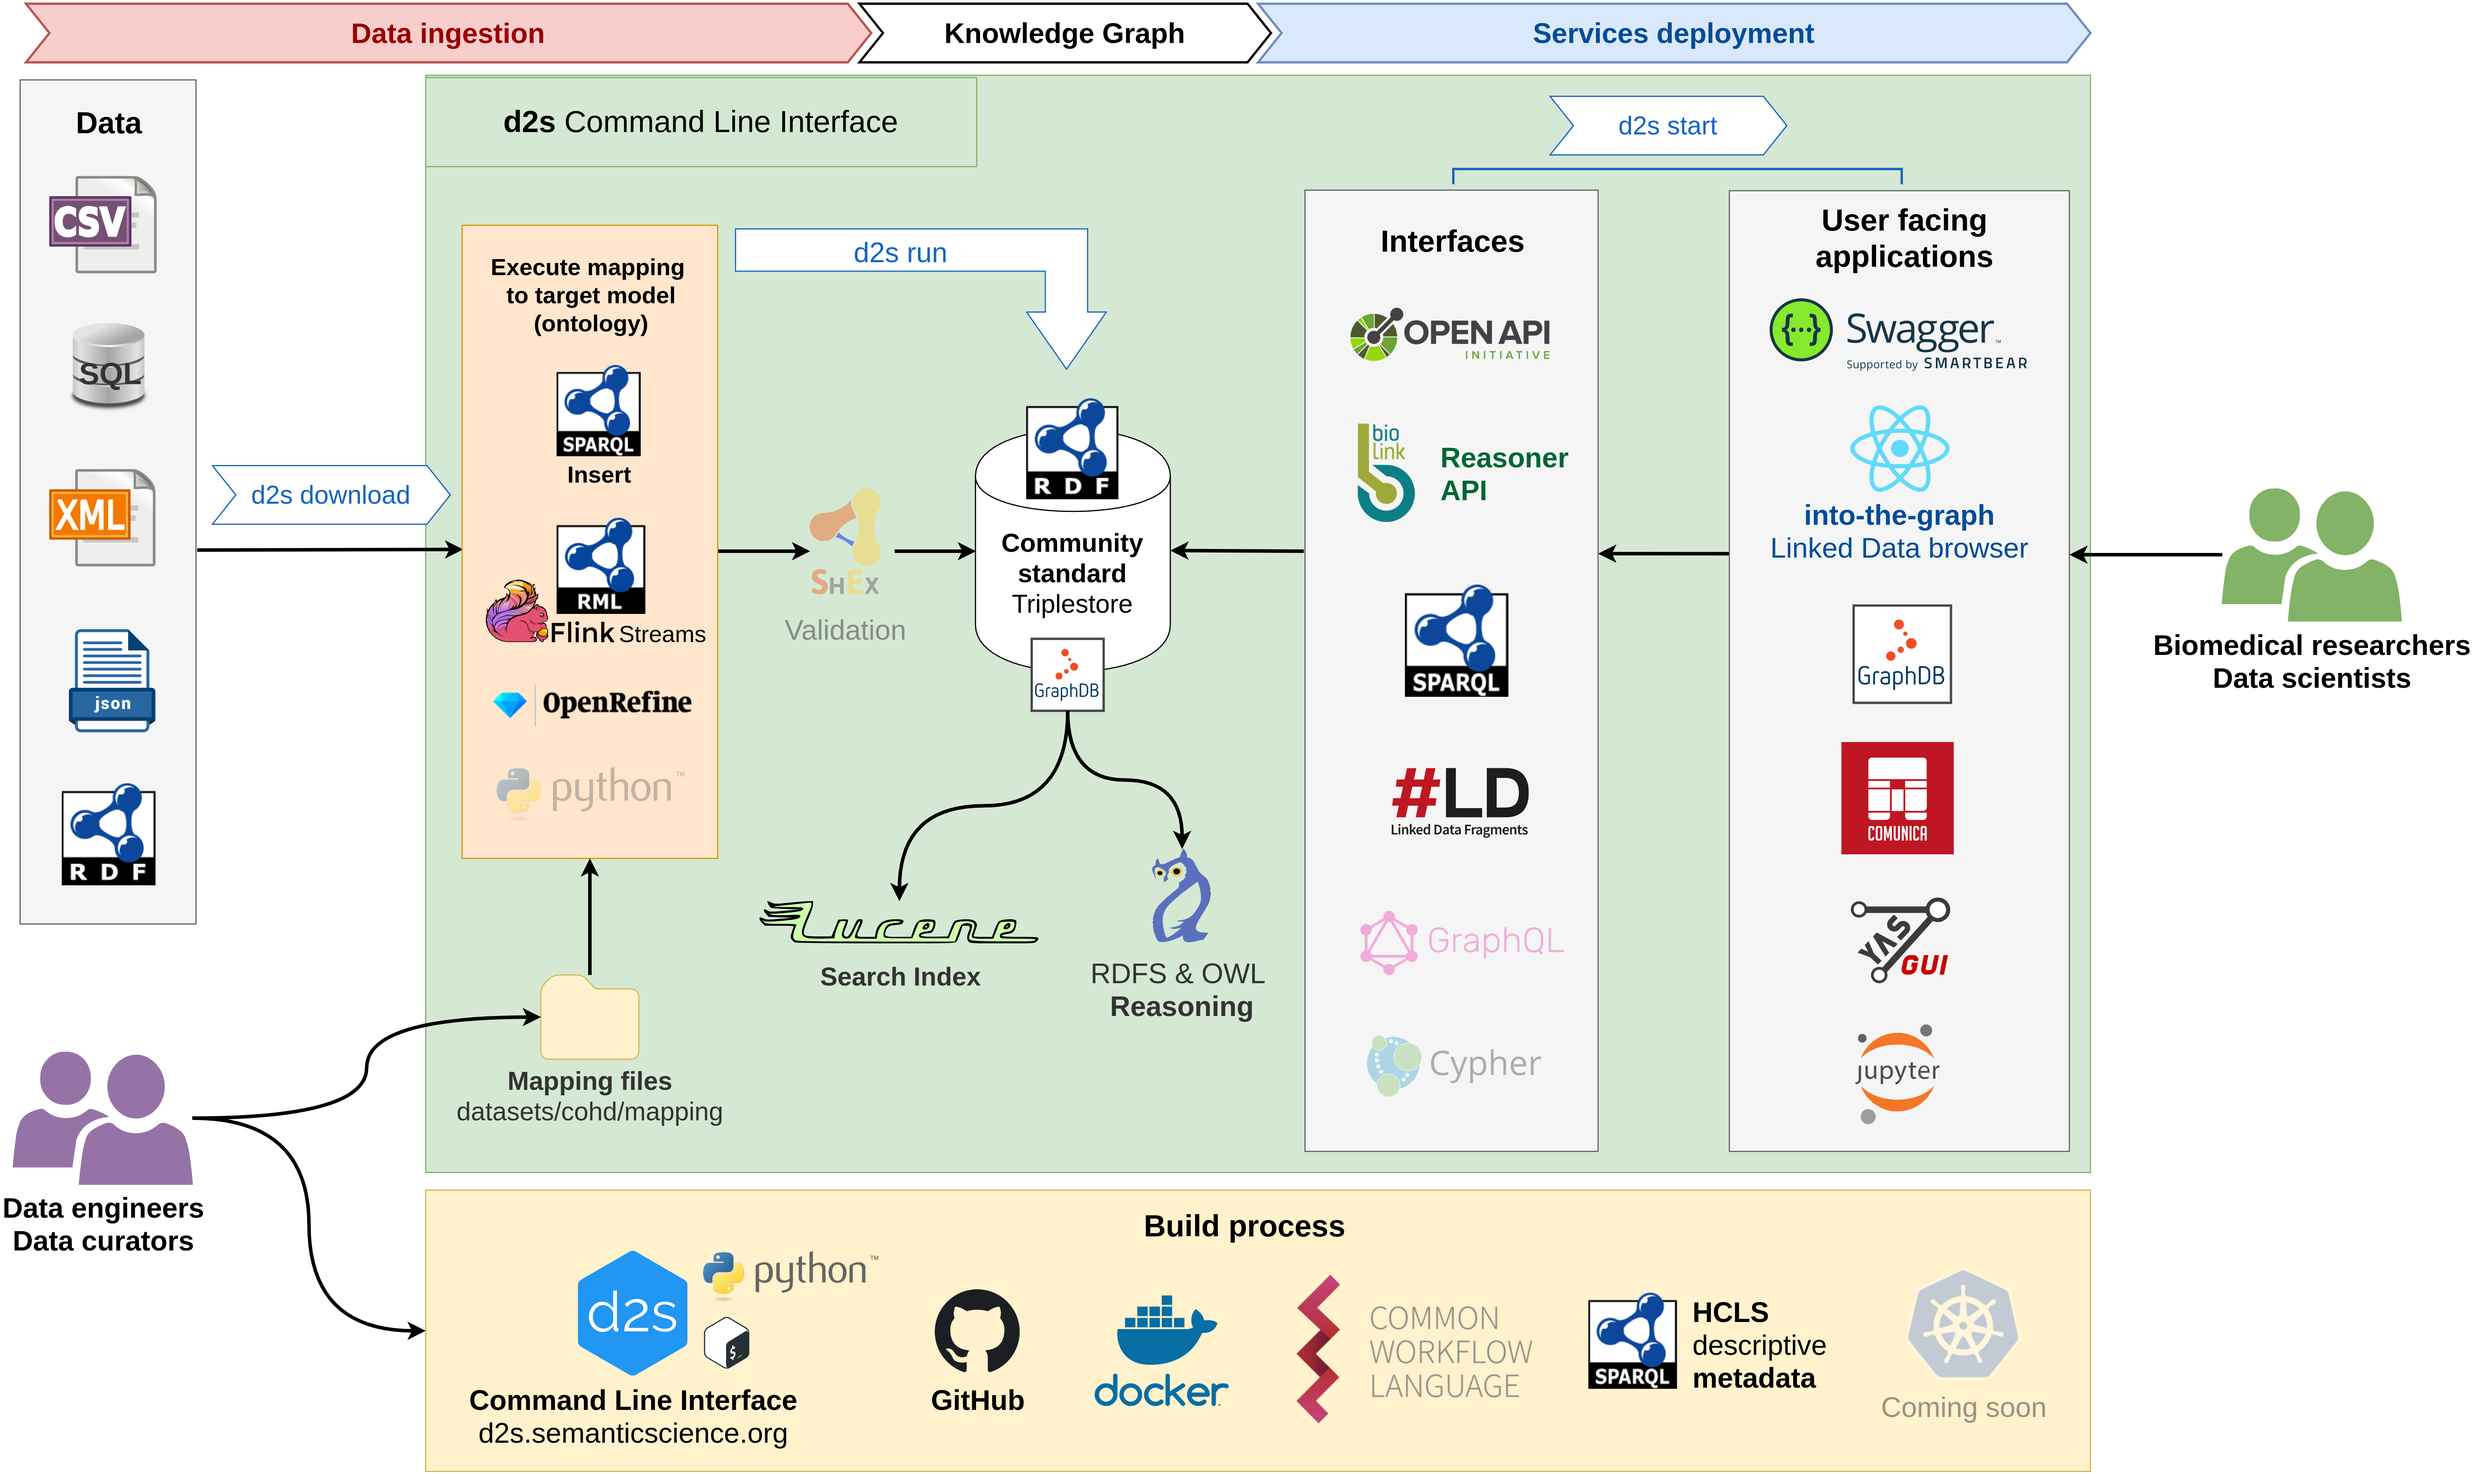
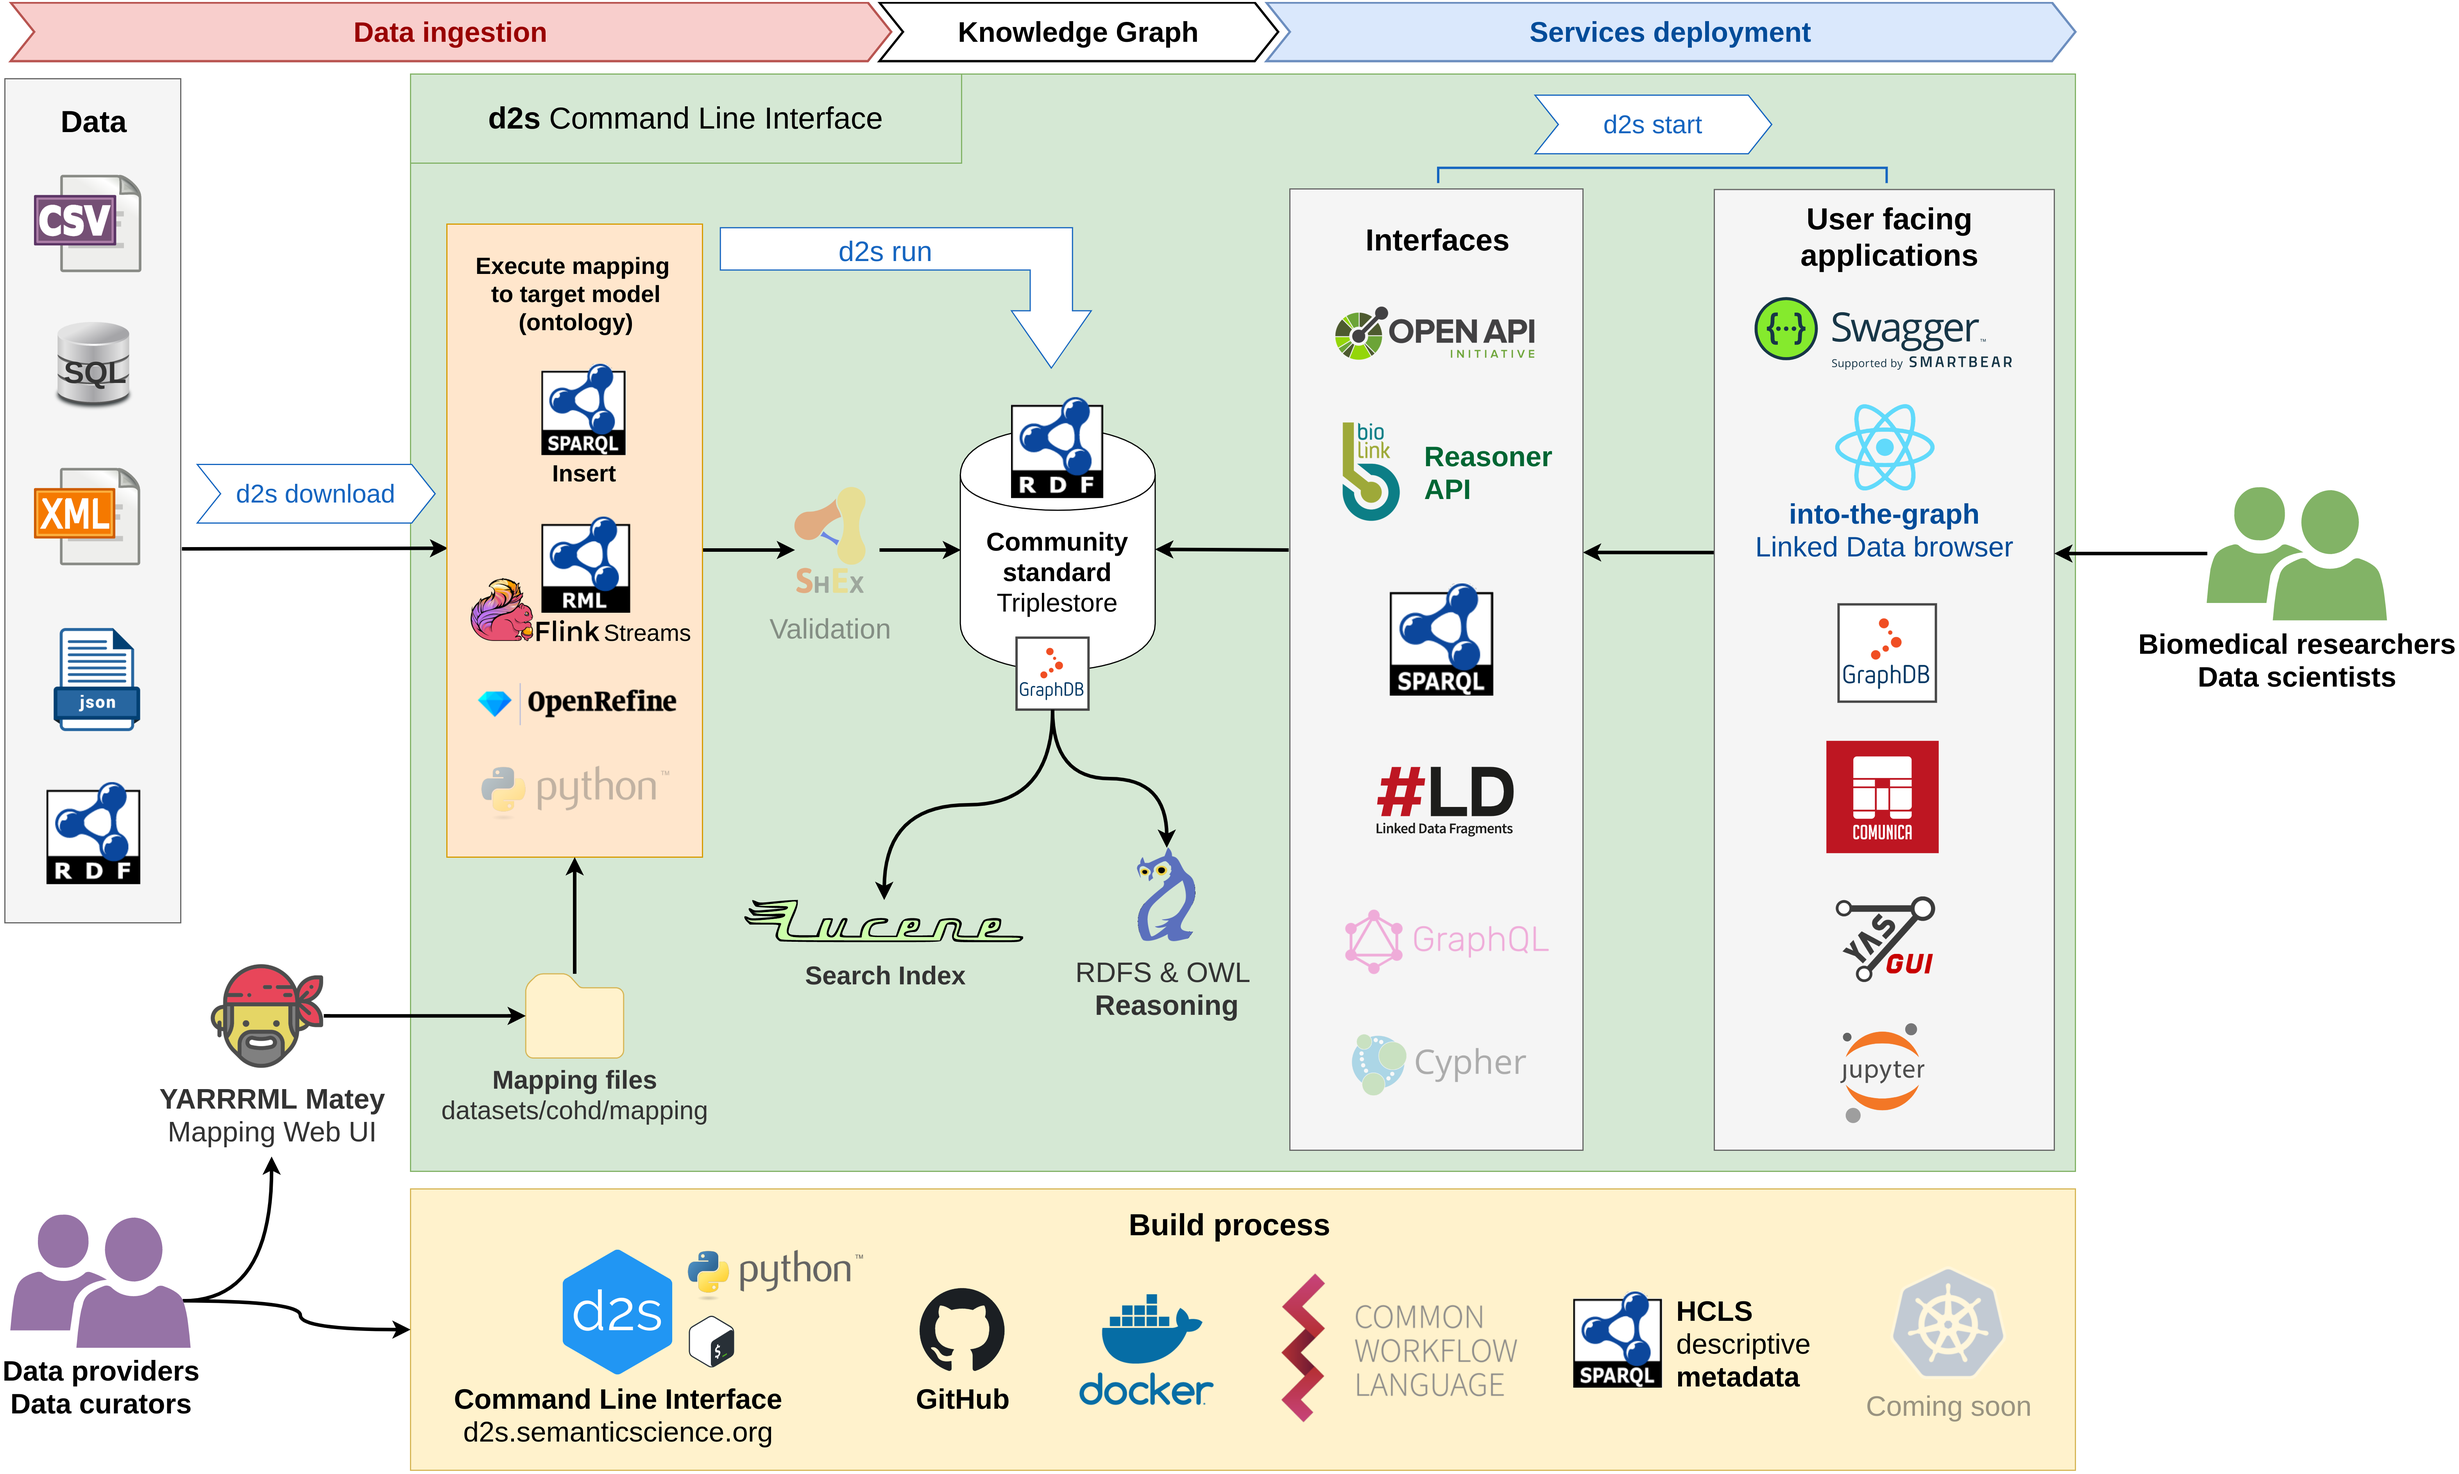
update architecture diagram

diff --git a/docs/d2s-rml.md b/docs/d2s-rml.md
@@ -60,7 +60,7 @@ d2s run compute-hcls-metadata.cwl cohd
 
 [![](/img/yarrrml-logo.png)](https://rml.io/yarrrml/)
 
-The [Matey Web UI editor](https://rml.io/yarrrml/matey/#edit) is available to conveniently write the RML mappings using the [YARRRML](https://rml.io/yarrrml/) simplified language. The mappings can then be conveniently tested in the browser on a sample of the file to transform.
+The [Matey Web UI editor](https://rml.io/yarrrml/matey/#edit) is available to conveniently write RML mappings using the [YARRRML](https://rml.io/yarrrml/) simplified language. The mappings can then be conveniently tested in the browser on a sample of the file to transform.
 
 RML Specifications can be found as a [W3C unofficial draft](https://rml.io/specs/rml/).
 
